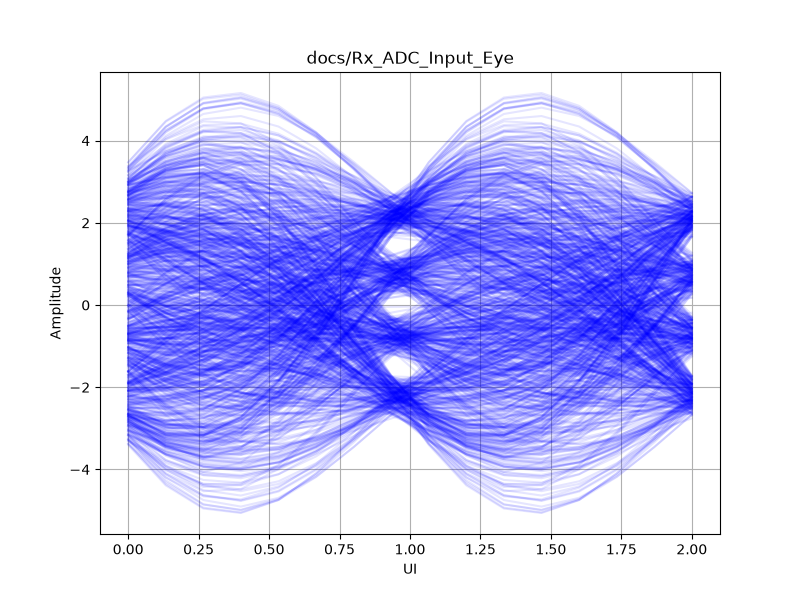
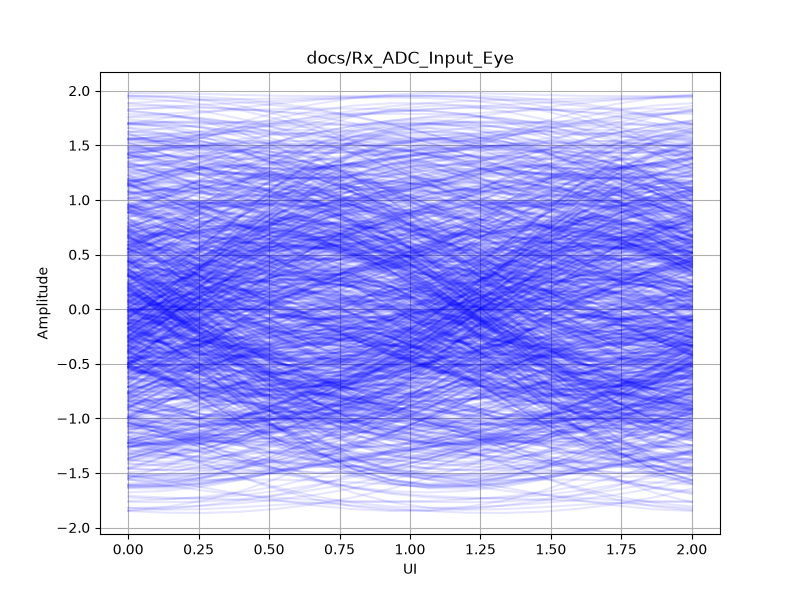
Add PCB host trace loss model (CEI-112G standard)

diff --git a/channel_imdd.py b/channel_imdd.py
@@ -18,12 +18,23 @@ def dac_zoh(x, sps_in, sps_out):
 
 def apply_channel(x_dac, config, baud_rate, sps_dac, sps_channel, sps_adc):
     """ Apply sequential IMDD channel bandwidth limitations at high sps """
-    # 1. DAC Output (ZOH)
+    # 1. PCB Trace (Host Tx to Module)
+    # Model as 1st order lowpass filter.
+    # We want a specific insertion loss at Nyquist (e.g., 15 dB at 28 GHz)
+    # -10 * log10(1 + (f/fc)^2) = -loss_db  =>  fc = nyquist / sqrt(10**(loss_db/10) - 1)
+    nyquist = baud_rate / 2
+    loss_db = config.get('pcb_loss_nyquist_db', 15.0)
+    fc_pcb = nyquist / np.sqrt(10**(loss_db/10) - 1)
+    
+    # 2. DAC Output (ZOH)
     x_analog = dac_zoh(x_dac, sps_dac, sps_channel)
     fs_analog = baud_rate * sps_channel
     
-    # 2. E-O Conversion (MZM)
-    x = lowpass_filter(x_analog, config['mzm_bw'], fs_analog)
+    # Apply PCB trace filter
+    x = lowpass_filter(x_analog, fc_pcb, fs_analog, order=1)
+    
+    # 3. E-O Conversion (MZM)
+    x = lowpass_filter(x, config['mzm_bw'], fs_analog)
     
     # 3. Fiber Channel
     # Simple insertion loss model (linear scaling)

diff --git a/create_config.py b/create_config.py
@@ -18,6 +18,7 @@ def generate_config():
             'ffe_pre': 1              # Pre-cursor taps
         },
         'channel': {
+            'pcb_loss_nyquist_db': 15.0, # 15 dB loss at Nyquist for Host PCB trace
             'mzm_bw': 35e9,           # 35 GHz MZM bandwidth
             'fiber_length_km': 2.0,   # 2 km typical FR4 reach
             'fiber_loss_db_km': 0.4,  # 0.4 dB/km at 1310nm